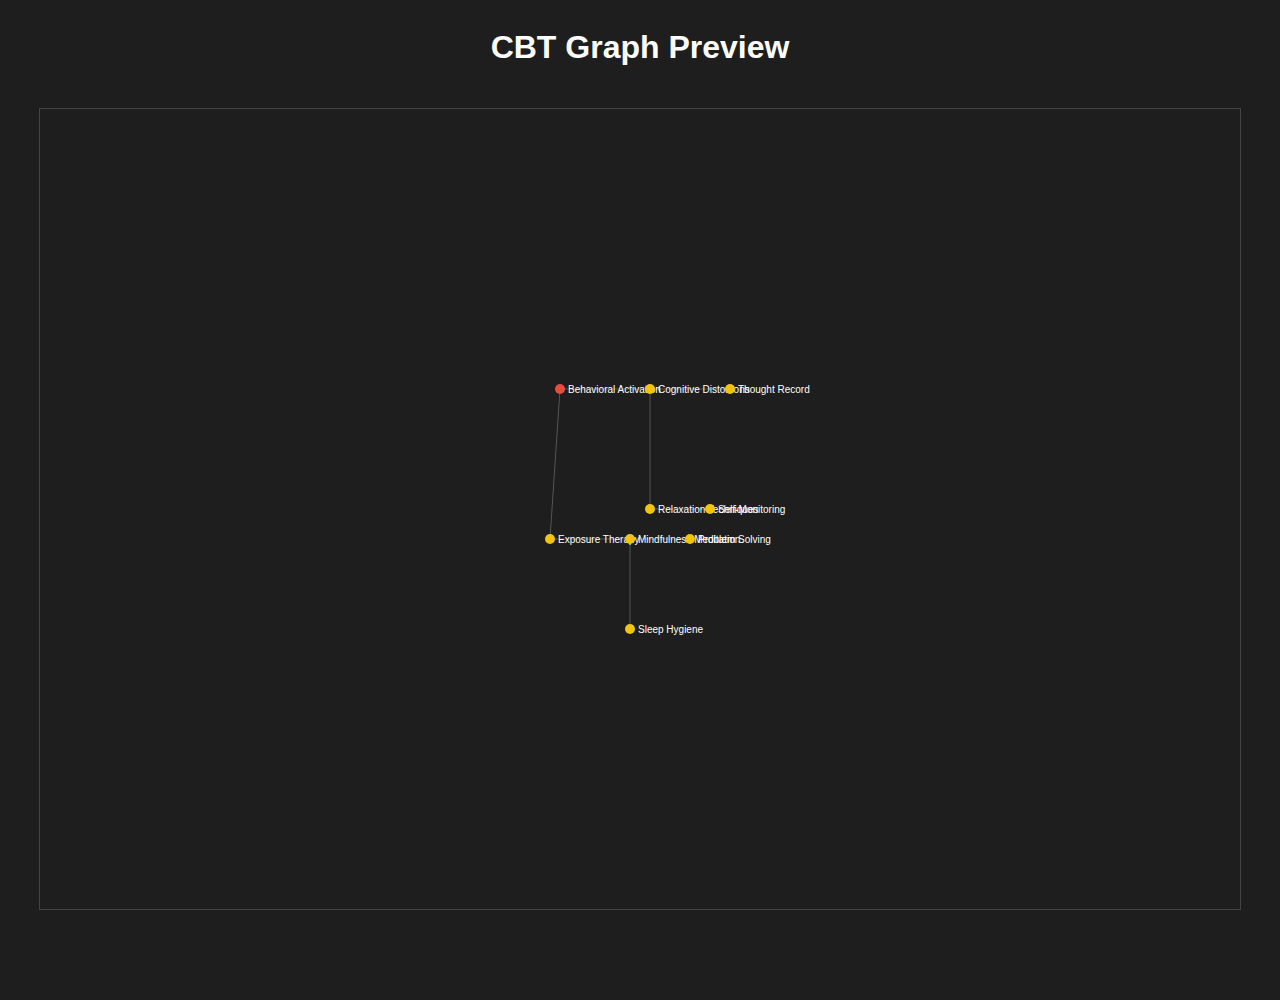
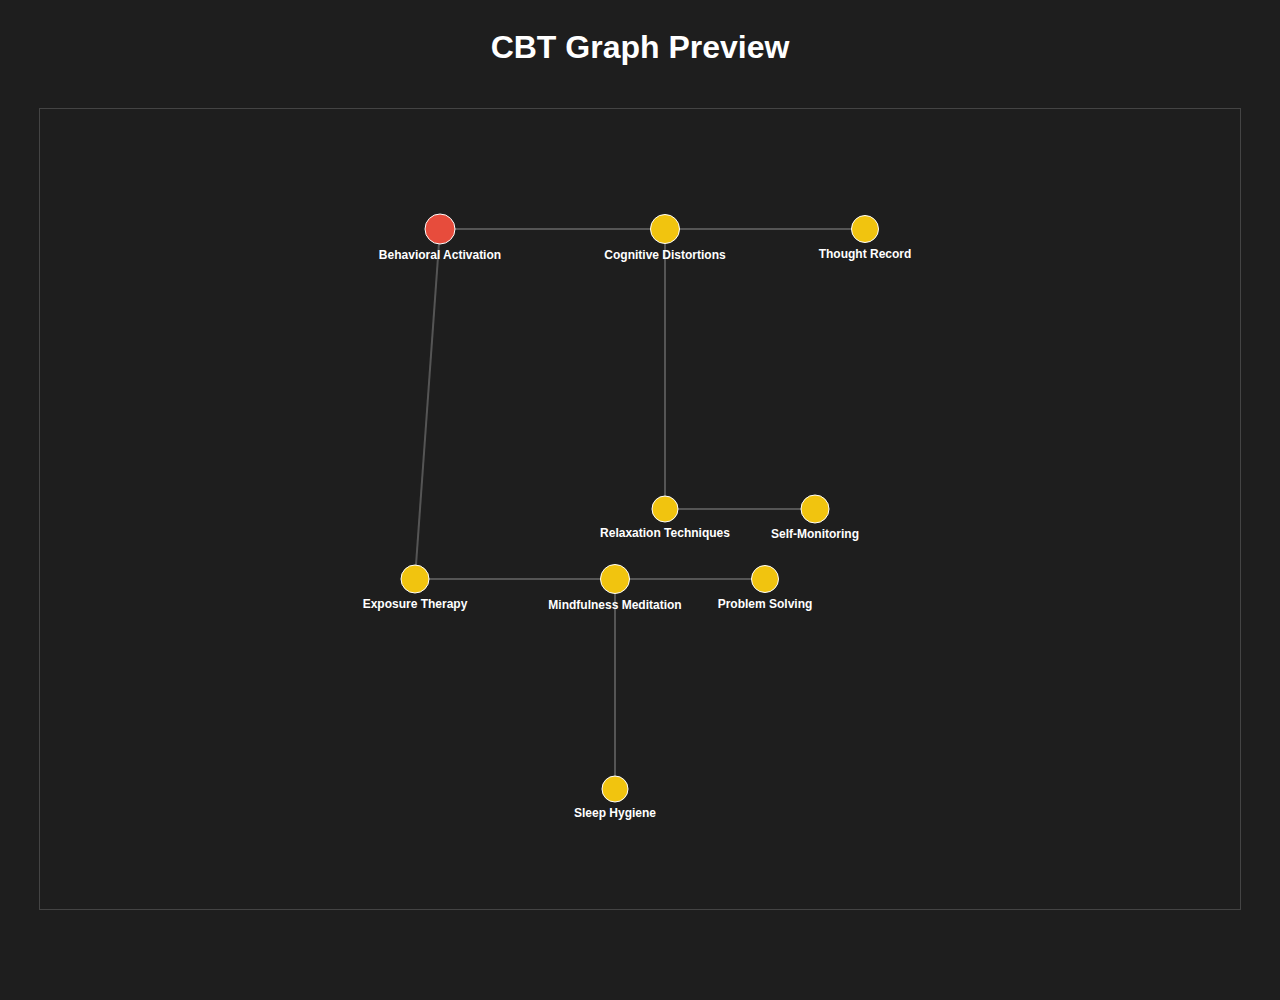
Enhance graph visuals and consolidate test artifacts
- Upgraded SVG export with larger nodes, centered layout, and readable text labels.
- Relocated baseline test assets (test_graph.csv/json) to the tests/ directory.
- Updated unit and BDD tests to reference new asset locations.
- Expanded README.md with detailed feature explanations and a high-resolution screenshot.
- Cleaned up temporary test-generated files and intermediate artifacts.

diff --git a/src/io/io_manager.cpp b/src/io/io_manager.cpp
@@ -209,8 +209,8 @@ bool IOManager::exportSVG(const Graph& graph, const std::string& filepath) {
         minY = std::min(minY, p.y); maxY = std::max(maxY, p.y);
     }
 
-    float offsetX = 600 - (minX + maxX) * 10;
-    float offsetY = 400 - (minY + maxY) * 15;
+    float offsetX = 600 - (minX + maxX) * 25; // Increased scale for centering
+    float offsetY = 400 - (minY + maxY) * 35;
 
     // Draw Edges
     for (const auto& node : graph.nodes) {
@@ -222,9 +222,9 @@ bool IOManager::exportSVG(const Graph& graph, const std::string& filepath) {
             if (node.index > neighbor_id) continue; // Draw each edge once
             const auto& p2 = graph.layoutPositions.at(neighbor_id);
 
-            file << "  <line x1=\"" << offsetX + p1.x * 20 << "\" y1=\"" << offsetY + p1.y * 30
-                 << "\" x2=\"" << offsetX + p2.x * 20 << "\" y2=\"" << offsetY + p2.y * 30
-                 << "\" stroke=\"#555\" stroke-width=\"1\" />\n";
+            file << "  <line x1=\"" << offsetX + p1.x * 50 << "\" y1=\"" << offsetY + p1.y * 70
+                 << "\" x2=\"" << offsetX + p2.x * 50 << "\" y2=\"" << offsetY + p2.y * 70
+                 << "\" stroke=\"#555\" stroke-width=\"2\" />\n";
         }
     }
 
@@ -237,10 +237,12 @@ bool IOManager::exportSVG(const Graph& graph, const std::string& filepath) {
         if (node.weight >= 10) color = "#e74c3c"; // Red for high weight
         else if (node.weight >= 5) color = "#f1c40f"; // Yellow
 
-        file << "  <circle cx=\"" << offsetX + p.x * 20 << "\" cy=\"" << offsetY + p.y * 30
-             << "\" r=\"5\" fill=\"" << color << "\" />\n";
-        file << "  <text x=\"" << offsetX + p.x * 20 + 8 << "\" y=\"" << offsetY + p.y * 30 + 4
-             << "\" fill=\"white\" font-family=\"Arial\" font-size=\"10\">" << node.label << "</text>\n";
+        float radius = 10.0f + (node.weight * 0.5f); // Scale radius by weight
+
+        file << "  <circle cx=\"" << offsetX + p.x * 50 << "\" cy=\"" << offsetY + p.y * 70
+             << "\" r=\"" << radius << "\" fill=\"" << color << "\" stroke=\"white\" stroke-width=\"1\" />\n";
+        file << "  <text x=\"" << offsetX + p.x * 50 << "\" y=\"" << offsetY + p.y * 70 + radius + 15
+             << "\" fill=\"white\" font-family=\"Arial\" font-size=\"12\" font-weight=\"bold\" text-anchor=\"middle\">" << node.label << "</text>\n";
     }
 
     file << "</svg>\n";
